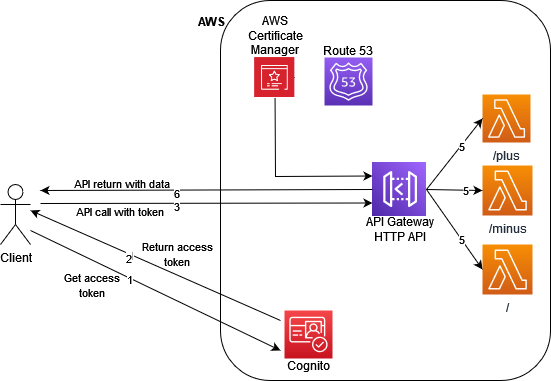
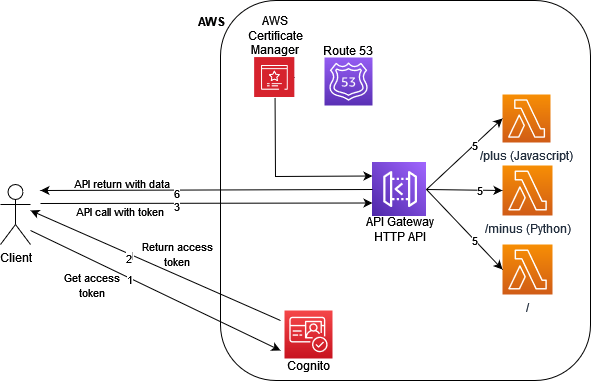
Keep Typescript lambda, remove default path

diff --git a/calculator_api/calculator_api_stack.py b/calculator_api/calculator_api_stack.py
@@ -215,11 +215,12 @@ class CalculatorApiStack(Stack):
         )
 
         # Default route without authentication
+        # Since / is added to the the route_key, instead of #$default", any none coded path will return: code 404 "Not found"
         http_api_route_default = aws_apigatewayv2_stable.CfnRoute(
             self,
             "RouteDefault",
             api_id=apigw.api_id,
-            route_key="$default",
+            route_key="GET /",
             authorization_type="NONE",
             # authorizer_id=jwt_authorizer.authorizer_id,
             target="integrations/"+default_integration.integration_id
